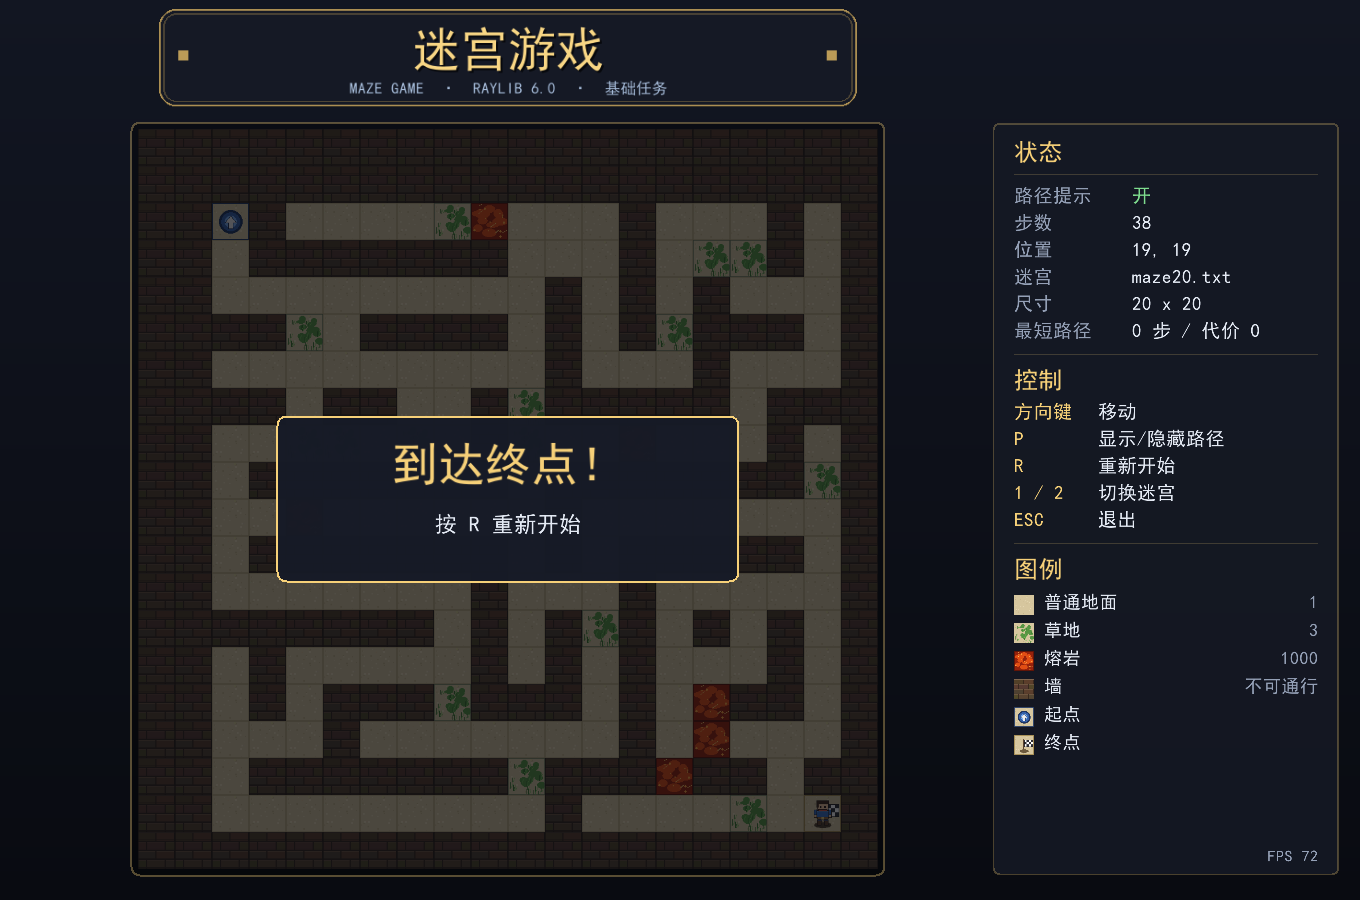
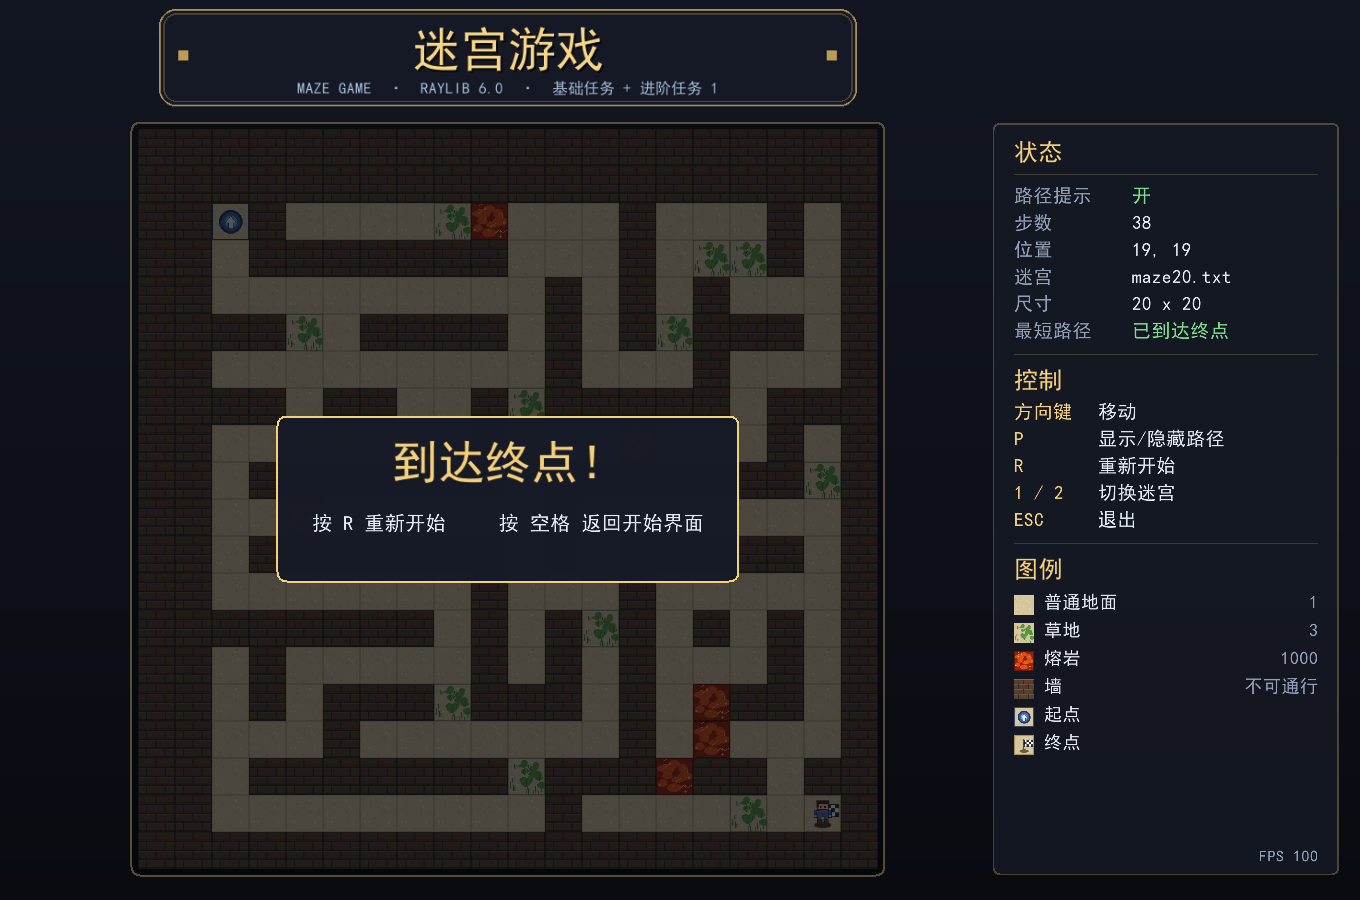
完成进阶任务1：开始界面（按空格开始）、胜利提示与返回开始界面

diff --git a/src/render/Renderer.cpp b/src/render/Renderer.cpp
@@ -197,10 +197,70 @@ void Renderer::drawWinOverlay() {
                            mazeRect.y + mazeRect.height * 0.5f - 82.0f, 460.0f, 164.0f};
     DrawRectangleRounded(box, 0.10f, 10, Color{22, 26, 38, 248});
     DrawRectangleRoundedLinesEx(box, 0.10f, 10, 2.0f, kGold);
-    text_.drawCentered("到达终点！", mazeRect.x + mazeRect.width * 0.5f, box.y + 24.0f, 46.0f,
+    text_.drawCentered("到达终点！", mazeRect.x + mazeRect.width * 0.5f, box.y + 22.0f, 46.0f,
                        kGold);
-    text_.drawCentered("按 R 重新开始", mazeRect.x + mazeRect.width * 0.5f, box.y + 96.0f, 22.0f,
-                       kText);
+    text_.drawCentered("按 R 重新开始     按 空格 返回开始界面",
+                       mazeRect.x + mazeRect.width * 0.5f, box.y + 96.0f, 20.0f, kText);
+}
+
+// 开始界面：标题图片 + 呼吸闪烁的“按 空格 键 开始游戏”提示
+void Renderer::drawTitleScreen(float timeSeconds) {
+    const int width = GetScreenWidth();
+    const int height = GetScreenHeight();
+    DrawRectangleGradientV(0, 0, width, height, kBgTop, kBgBottom);
+    DrawRectangleRoundedLinesEx(
+        Rectangle{40.0f, 40.0f, static_cast<float>(width) - 80.0f,
+                  static_cast<float>(height) - 80.0f},
+        0.01f, 4, 1.0f, Color{246, 208, 120, 45});
+
+    if (banner_.id != 0) {
+        const float bannerWidth = std::min(900.0f, static_cast<float>(width) * 0.72f);
+        const float scale = bannerWidth / static_cast<float>(banner_.width);
+        const float bannerHeight = static_cast<float>(banner_.height) * scale;
+        DrawTexturePro(banner_, Rectangle{0.0f, 0.0f, static_cast<float>(banner_.width),
+                                          static_cast<float>(banner_.height)},
+                       Rectangle{(width - bannerWidth) * 0.5f, height * 0.24f - bannerHeight * 0.5f,
+                                 bannerWidth, bannerHeight},
+                       Vector2{0.0f, 0.0f}, 0.0f, WHITE);
+    }
+
+    const float centerX = width * 0.5f;
+    const float phase = 0.55f + 0.45f * (0.5f + 0.5f * std::sin(timeSeconds * 2.8f));
+    text_.drawCentered("按 空格 键 开始游戏", centerX, height * 0.47f, 40.0f,
+                       Color{248, 214, 132, static_cast<unsigned char>(255.0f * phase)});
+    text_.drawCentered("从起点出发，到达终点即胜利；按 P 显示最短路径", centerX,
+                       height * 0.47f + 52.0f, 20.0f, kDim);
+
+    DrawLineEx(Vector2{centerX - 260.0f, height * 0.47f + 84.0f},
+               Vector2{centerX + 260.0f, height * 0.47f + 84.0f}, 1.0f,
+               Color{246, 208, 120, 60});
+
+    text_.drawCentered("方向键 移动    P 路径提示    R 重新开始    1 / 2 切换迷宫    ESC 退出",
+                       centerX, height * 0.47f + 106.0f, 21.0f, kDim);
+
+    // 地块图鉴：填充中部空白，同时说明各种地块
+    struct LegendItem {
+        maze::Tile tile;
+        const char* label;
+    };
+    static const LegendItem kItems[] = {
+        {maze::Tile::Ground, "普通地面"}, {maze::Tile::Grass, "草地"},
+        {maze::Tile::Lava, "熔岩"},       {maze::Tile::Wall, "墙"},
+        {maze::Tile::Start, "起点"},      {maze::Tile::End, "终点"},
+    };
+    constexpr int kItemCount = static_cast<int>(sizeof(kItems) / sizeof(kItems[0]));
+    constexpr float kItemWidth = 96.0f;
+    const float legendY = height * 0.66f;
+    const float legendStartX = centerX - kItemWidth * kItemCount * 0.5f;
+    for (int i = 0; i < kItemCount; ++i) {
+        const float itemX = legendStartX + kItemWidth * i + kItemWidth * 0.5f;
+        drawTile(kItems[i].tile, itemX - 16.0f, legendY, 32.0f);
+        text_.drawCentered(kItems[i].label, itemX, legendY + 40.0f, 17.0f, kDim);
+    }
+
+    text_.drawCentered("20 x 20 自设计迷宫    Raylib 6.0", centerX, height - 104.0f, 19.0f, kDim);
+    text_.drawCentered("基础任务 + 进阶任务 1", centerX, height - 74.0f, 19.0f,
+                       Color{246, 208, 120, 170});
 }
 
 void Renderer::drawLegendRow(float x, float y, maze::Tile tile, const char* label,
@@ -240,7 +300,9 @@ void Renderer::drawPanel(const maze::Maze& maze, const maze::Player& player,
     statRow("迷宫", maze.title().c_str(), kText);
     statRow("尺寸", TextFormat("%d x %d", maze.rows(), maze.cols()), kText);
     if (showPath) {
-        if (path.found) {
+        if (player.cell() == maze.end()) {
+            statRow("最短路径", "已到达终点", kGreen);
+        } else if (path.found) {
             statRow("最短路径", TextFormat("%d 步 / 代价 %d", static_cast<int>(path.cells.size()) - 1,
                                             path.cost),
                     kText);

diff --git a/src/game/GameApp.cpp b/src/game/GameApp.cpp
@@ -10,6 +10,7 @@ namespace game {
 bool GameApp::init(const Options& options, std::string* error) {
     options_ = options;
     showPath_ = options.showPath;
+    screen_ = options.skipTitle ? Screen::Playing : Screen::Title;
 
     const std::string resolved = resolveAssetPath(options.mazePath);
     if (!maze_.load(resolved, error)) {
@@ -139,7 +140,11 @@ void GameApp::update(float deltaSeconds) {
 
 void GameApp::draw() {
     BeginDrawing();
-    renderer_.draw(maze_, player_, path_, showPath_, timeSeconds_, win_);
+    if (screen_ == Screen::Title) {
+        renderer_.drawTitleScreen(timeSeconds_);
+    } else {
+        renderer_.draw(maze_, player_, path_, showPath_, timeSeconds_, win_);
+    }
     EndDrawing();
 }
 
@@ -147,7 +152,19 @@ int GameApp::run() {
     int frames = 0;
     while (!WindowShouldClose()) {
         const float deltaSeconds = GetFrameTime();
-        handleInput(deltaSeconds);
+        if (screen_ == Screen::Title) {
+            // 开始界面：按空格（或回车）开始游戏
+            if (IsKeyPressed(KEY_SPACE) || IsKeyPressed(KEY_ENTER)) {
+                startGame();
+            }
+        } else {
+            handleInput(deltaSeconds);
+            // 胜利后：空格返回开始界面
+            if (win_ && (IsKeyPressed(KEY_SPACE) || IsKeyPressed(KEY_ENTER))) {
+                screen_ = Screen::Title;
+                resetPlayer();
+            }
+        }
         update(deltaSeconds);
         draw();
 
@@ -160,6 +177,11 @@ int GameApp::run() {
         }
     }
     return 0;
+}
+
+void GameApp::startGame() {
+    resetPlayer();
+    screen_ = Screen::Playing;
 }
 
 void GameApp::shutdown() {

diff --git a/src/main.cpp b/src/main.cpp
@@ -7,10 +7,11 @@
 namespace {
 
 void printUsage() {
-    TraceLog(LOG_INFO, "迷宫游戏（基础任务） - Raylib 6.0");
+    TraceLog(LOG_INFO, "迷宫游戏（基础任务 + 进阶任务 1） - Raylib 6.0");
     TraceLog(LOG_INFO, "用法：maze_game [选项] [迷宫文件]");
     TraceLog(LOG_INFO, "  --maze=<文件>   指定迷宫源文件，默认 mazes/maze20.txt");
     TraceLog(LOG_INFO, "  --path-on       启动时打开路径提示");
+    TraceLog(LOG_INFO, "  --skip-title    跳过开始界面直接进入游戏（调试/截图用）");
     TraceLog(LOG_INFO, "  --shot=<png>    渲染若干帧后截图并退出（自动化验证用）");
     TraceLog(LOG_INFO, "  --frames=<n>    截图前等待的帧数，默认 45");
     TraceLog(LOG_INFO, "  --walk=<UDLR>   启动时按方向序列自动移动若干步（调试用）");
@@ -30,6 +31,8 @@ int main(int argc, char** argv) {
         }
         if (arg == "--path-on" || arg == "-p") {
             options.showPath = true;
+        } else if (arg == "--skip-title") {
+            options.skipTitle = true;
         } else if (arg.rfind("--maze=", 0) == 0) {
             options.mazePath = arg.substr(7);
         } else if (arg == "--maze" && i + 1 < argc) {
@@ -52,7 +55,8 @@ int main(int argc, char** argv) {
     }
 
     SetTraceLogLevel(LOG_INFO);
-    InitWindow(game::kWindowWidth, game::kWindowHeight, "迷宫游戏 - 基础任务 (Raylib 6.0)");
+    InitWindow(game::kWindowWidth, game::kWindowHeight,
+               "迷宫游戏 - 基础任务 + 进阶任务 1 (Raylib 6.0)");
     if (!IsWindowReady()) {
         TraceLog(LOG_ERROR, "窗口初始化失败");
         return 1;

diff --git a/src/game/GameApp.h b/src/game/GameApp.h
@@ -15,9 +15,16 @@ inline constexpr int kWindowHeight = 900;
 struct Options {
     std::string mazePath = "mazes/maze20.txt";
     bool showPath = false;
+    bool skipTitle = false;   // 调试/截图用：跳过开始界面直接进入游戏
     int shotAfterFrames = 0;  // >0 时在若干帧后截图并退出（用于自动化验证）
     std::string shotPath;
     std::string walk;  // 调试用：启动时按 "U/D/L/R" 序列自动走几步
+};
+
+// 画面状态：开始界面 -> 游戏中
+enum class Screen {
+    Title,
+    Playing,
 };
 
 // 游戏主控：组织迷宫、小人、路径提示与界面绘制，并处理键盘输入。
@@ -38,12 +45,14 @@ private:
     void draw();
     void recomputePath();
     void resetPlayer();
+    void startGame();
 
     Options options_;
     maze::Maze maze_;
     maze::Player player_;
     maze::PathResult path_;
     Renderer renderer_;
+    Screen screen_ = Screen::Title;
     bool showPath_ = false;
     bool win_ = false;
     float timeSeconds_ = 0.0f;

diff --git a/src/render/TextRenderer.cpp b/src/render/TextRenderer.cpp
@@ -11,7 +11,7 @@ namespace {
 const char* kUiText =
     "状态路径提示开关步数位置迷宫行列尺寸最短代价无可行控制方向键移动显示隐藏重新开始切换图例"
     "普通地面墙草地熔岩起点终点不可通行到达按当前自设计演示失败载入已最佳从到棋盘格子退出"
-    "游戏任务说明！";
+    "空格进阶返回界面基础游戏任务说明小人出发即胜利！，；";
 
 constexpr int kBaseFontSize = 48;
 constexpr float kSpacing = 0.5f;

diff --git a/tools/gen_assets.py b/tools/gen_assets.py
@@ -217,7 +217,7 @@ def title_banner() -> Image.Image:
     tx = (W - tw) / 2
     d.text((tx + 2, 20), text, font=font_big, fill=(0, 0, 0, 160))
     d.text((tx, 18), text, font=font_big, fill=(248, 214, 132, 255))
-    sub = "MAZE GAME  ·  RAYLIB 6.0  ·  基础任务"
+    sub = "MAZE GAME  ·  RAYLIB 6.0  ·  基础任务 + 进阶任务 1"
     sw = d.textlength(sub, font=font_small)
     d.text(((W - sw) / 2, 78), sub, font=font_small, fill=(168, 190, 220, 255))
     return img

diff --git a/src/render/Renderer.h b/src/render/Renderer.h
@@ -27,6 +27,9 @@ public:
     void draw(const maze::Maze& maze, const maze::Player& player, const maze::PathResult& path,
               bool showPath, float timeSeconds, bool win);
 
+    // 开始界面（进阶任务 1：按空格开始游戏）
+    void drawTitleScreen(float timeSeconds);
+
     const MazeLayout& layout() const { return layout_; }
 
 private:

diff --git a/README.md b/README.md
@@ -1,9 +1,9 @@
-# 迷宫游戏（Raylib 6.0 · 基础任务）
+# 迷宫游戏（Raylib 6.0 · 基础任务 + 进阶任务 1）
 
-《程序设计综合实践》迷宫游戏基础任务的实现：用 Raylib 6.0 绘制图形化迷宫，
-方向键控制小人行走，`P` 键显示从当前位置到终点的带权最短路径。
+《程序设计综合实践》迷宫游戏：用 Raylib 6.0 绘制图形化迷宫，方向键控制小人行走，
+`P` 键显示从当前位置到终点的带权最短路径；含开始界面（空格开始）与到达终点的胜利提示。
 
-![基础界面](docs/screenshots/01-basic.png)
+![开始界面](docs/screenshots/00-title.png)
 
 ## 1. 已完成的基础任务
 
@@ -17,7 +17,17 @@
 
 另外附带一个 11×11 演示迷宫 `mazes/maze11_demo.txt`，可用 `1` / `2` 键切换。
 
-## 2. 运行环境
+## 2. 已完成的进阶任务 1：完整游戏流程
+
+| 说明书要求 | 实现情况 | 代码位置 |
+| --- | --- | --- |
+| (a) 开始界面，提示按下空格键开始游戏 | 独立的开始画面：标题、呼吸闪烁的“按 空格 键 开始游戏”、操作说明与地块图鉴；按空格（或回车）进入游戏 | `src/render/Renderer.cpp` `drawTitleScreen()`、`src/game/GameApp.cpp` |
+| (b) 游戏开始时，小人处于“起点”地块 | 开始游戏 / 重开时调用 `Player::reset(maze.start())`，位置取自迷宫文件里的 `-1` | `src/game/GameApp.cpp` `startGame()` / `resetPlayer()` |
+| (c) 小人处于“终点”地块时提示游戏胜利 | 走到终点弹出“到达终点！”遮罩，可按 `R` 重新开始、按空格返回开始界面 | `src/render/Renderer.cpp` `drawWinOverlay()` |
+
+除了进阶任务 1，进阶任务 2（草地减速、熔岩失败）、3（怪物、随机迷宫）、4（其他趣味功能）尚未实现。
+
+## 3. 运行环境
 
 - Windows 10/11 x64，MinGW-w64 `g++ 14.2.0`（`C:\mingw64`）
 - CMake ≥ 3.25、Ninja
@@ -26,7 +36,7 @@
 > 工程路径包含中文，**必须使用 Ninja 生成器**。MinGW Makefiles（`mingw32-make`）无法处理中文绝对路径，
 > 这也是 `run.bat` 固定使用 Ninja 的原因。
 
-## 3. 编译与运行
+## 4. 编译与运行
 
 最简单的方式是双击（或在终端执行）`run.bat`，它会自动完成配置、编译和运行：
 
@@ -44,10 +54,11 @@ build\maze_game.exe
 
 编译产物 `build/maze_game.exe` 旁边会自动复制 `assets/` 与 `mazes/`，所以直接在 `build` 目录运行也能找到资源。
 
-## 4. 操作说明
+## 5. 操作说明
 
 | 按键 | 功能 |
 | --- | --- |
+| 空格 / 回车 | 开始界面进入游戏；到达终点后返回开始界面 |
 | ↑ ↓ ← → / W A S D | 移动小人（按住可连续行走） |
 | P | 显示 / 隐藏最短路径提示 |
 | R | 重新开始（小人回到起点） |
@@ -57,7 +68,9 @@ build\maze_game.exe
 路径提示打开时，金色虚线从“小人当前格”连到终点，右侧面板同时显示最短路径的步数与行走代价。
 小人走到终点会显示“到达终点！”提示。
 
-## 5. 界面截图
+## 6. 界面截图
+
+![开始界面](docs/screenshots/00-title.png)
 
 | 路径提示关闭 | 路径提示打开（38 步 / 代价 42） |
 | --- | --- |
@@ -71,7 +84,7 @@ build\maze_game.exe
 | --- |
 | ![](docs/screenshots/05-maze11.png) |
 
-## 6. 目录结构
+## 7. 目录结构
 
 ```
 迷宫游戏/
@@ -90,13 +103,13 @@ build\maze_game.exe
 │  │  ├─ Maze.h/.cpp       #   迷宫数据读取与校验
 │  │  ├─ PathFinder.h/.cpp #   Dijkstra 带权最短路径
 │  │  └─ Player.h/.cpp     #   小人位置、行走规则、换位动画
-│  ├─ game/GameApp.h/.cpp  # 主循环、键盘输入、游戏状态
+│  ├─ game/GameApp.h/.cpp  # 主循环、键盘输入、画面状态（开始界面 / 游戏中）
 │  ├─ render/              # 渲染层
-│  │  ├─ Renderer.*        #   迷宫/路径/小人/状态面板绘制
+│  │  ├─ Renderer.*        #   开始界面/迷宫/路径/小人/状态面板绘制
 │  │  ├─ TextRenderer.*    #   中文文字绘制（按需载入字形）
 │  │  └─ AssetPaths.*      #   资源路径解析
 │  └─ tests/core_tests.cpp # 核心逻辑单元测试
-├─ tools/                  # 资源生成与验证脚本（Python）
+├─ tools/                  # 资源生成与验证脚本（Python，非必需）
 │  ├─ gen_assets.py        #   生成地块与界面图片
 │  ├─ gen_maze.py          #   生成并校验迷宫文件
 │  ├─ render_preview.py    #   把迷宫源文件渲染成 PNG 预览
@@ -105,7 +118,7 @@ build\maze_game.exe
 └─ third_party/raylib-6.0/ # Raylib 6.0 源码（MIT 许可）
 ```
 
-## 7. 迷宫源文件格式
+## 8. 迷宫源文件格式
 
 与任务说明书第 4 节一致：第一行是 `行数 列数`，之后每行是各列地块类型，用空格分隔。
 
@@ -121,7 +134,7 @@ build\maze_game.exe
 读取时会校验：首行尺寸、数据个数、地块取值、起点/终点各恰好一个、行列数是否匹配。
 `mazes/maze20.txt` 的第一行是 `20 20`。
 
-## 8. 最短路径算法
+## 9. 最短路径算法
 
 `PathFinder::shortestPath` 使用 Dijkstra 算法（优先队列）：
 
@@ -133,9 +146,9 @@ build\maze_game.exe
 因为草地上“绕路”可能比“直穿”更便宜，所以 20×20 迷宫中刻意在最短路径上放了两块草地，
 界面显示 38 步 / 代价 42（38 步普通成本 38，其中 2 步踩草地，每步多 2）。
 
-## 9. 测试与验证
+## 10. 测试与验证
 
-### 9.1 核心逻辑单元测试（193 项检查）
+### 10.1 核心逻辑单元测试（193 项检查）
 
 ```bat
 build\core_tests.exe
@@ -145,20 +158,25 @@ build\core_tests.exe
 自设计 20×20 与 11×11 迷宫的最短路径结果（38 步/42 代价、20 步/24 代价）、
 小人撞墙/动画期间拒绝移动/重开等。
 
-### 9.2 界面自动化截图
+### 10.2 界面自动化截图与流程验证
 
 ```bat
-build\maze_game.exe --path-on --shot=shot.png --frames=40
+build\maze_game.exe --shot=shot.png --frames=40
+build\maze_game.exe --skip-title --path-on --shot=shot.png --frames=40
 ```
 
-`--shot` 会在渲染若干帧后保存截图并退出，用于检查界面；`--walk=UDLR...` 可在启动时
-按方向序列自动走若干步（例如 `--walk=DDRRRRRRRRDDDDDDDD` 后截图即为“走了 18 步”的状态）。
-`docs/screenshots/` 中的 5 张截图均由这种方式生成。
+- `--shot` 渲染若干帧后保存截图并退出，用于检查界面；
+- `--skip-title` 跳过开始界面直接进入游戏（截图/调试用）；
+- `--walk=UDLR...` 启动时按方向序列自动走若干步，例如 `--walk=DDRRRRRRRRDDDDDDDD` 后截图即为“走了 18 步”的状态；
+- 开始界面的空格键通过向窗口发送 `WM_KEYDOWN/WM_KEYUP` 验证，确认能正常进入游戏。
 
-## 10. 说明与后续
+`docs/screenshots/` 中的 6 张截图均由这种方式生成。
 
-- 当前按“先完成基础任务”的要求实现，**进阶任务（开始界面、胜利流程、草地减速、熔岩失败、
-  怪物、随机迷宫）尚未实现**；代码已按模块拆分，后续可直接在此基础上扩展。
+## 11. 说明与后续
+
+- 已完成基础任务 1–5 与进阶任务 1（开始界面、起点开局、胜利提示）；
+- 进阶任务 2/3/4（草地减速、熔岩失败、怪物寻路、随机迷宫、其他趣味功能）尚未实现，
+  可按 `Player`、`GameApp`、`Renderer` 现有结构继续扩展；
 - 图片资源由 `tools/gen_assets.py` 用 Pillow 生成；`simhei.ttf` 取自本机 Windows 字体，
-  仅用于本机展示中文界面。
+  仅用于本机展示中文界面；`tools/` 脚本不是编译运行所必需的；
 - Raylib 6.0 以源码形式附带，遵循其 MIT 许可证。
